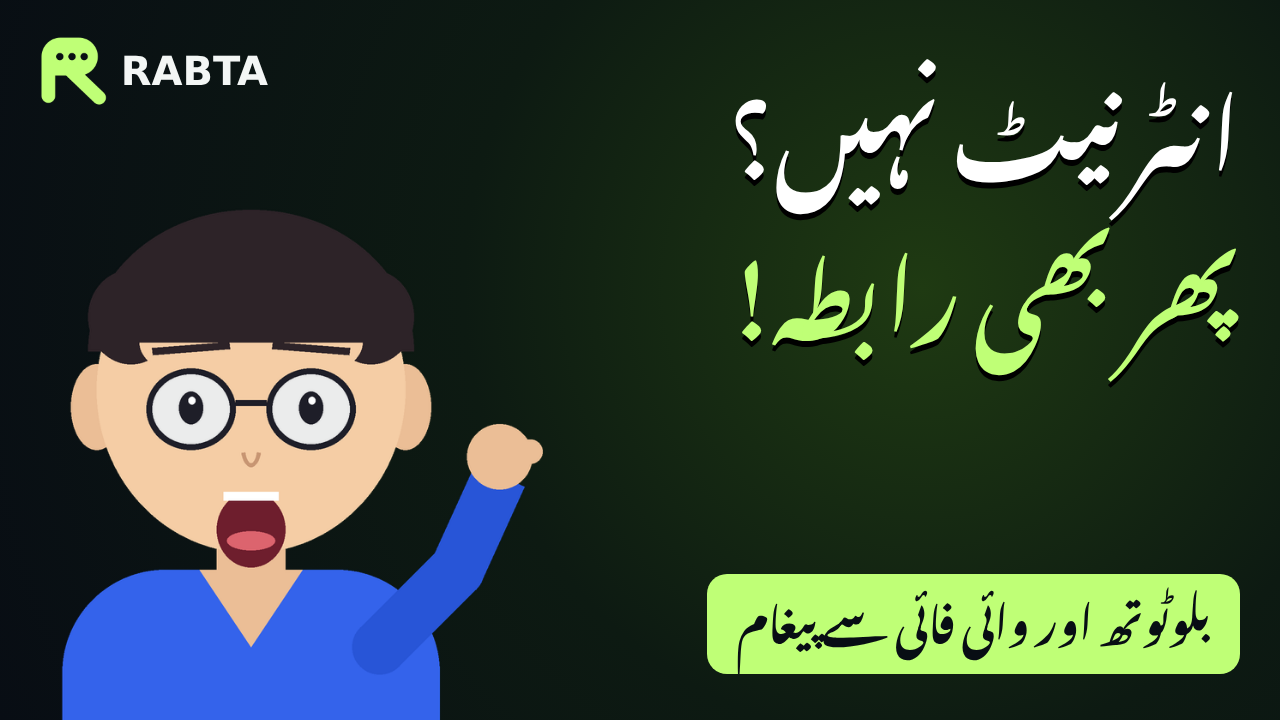
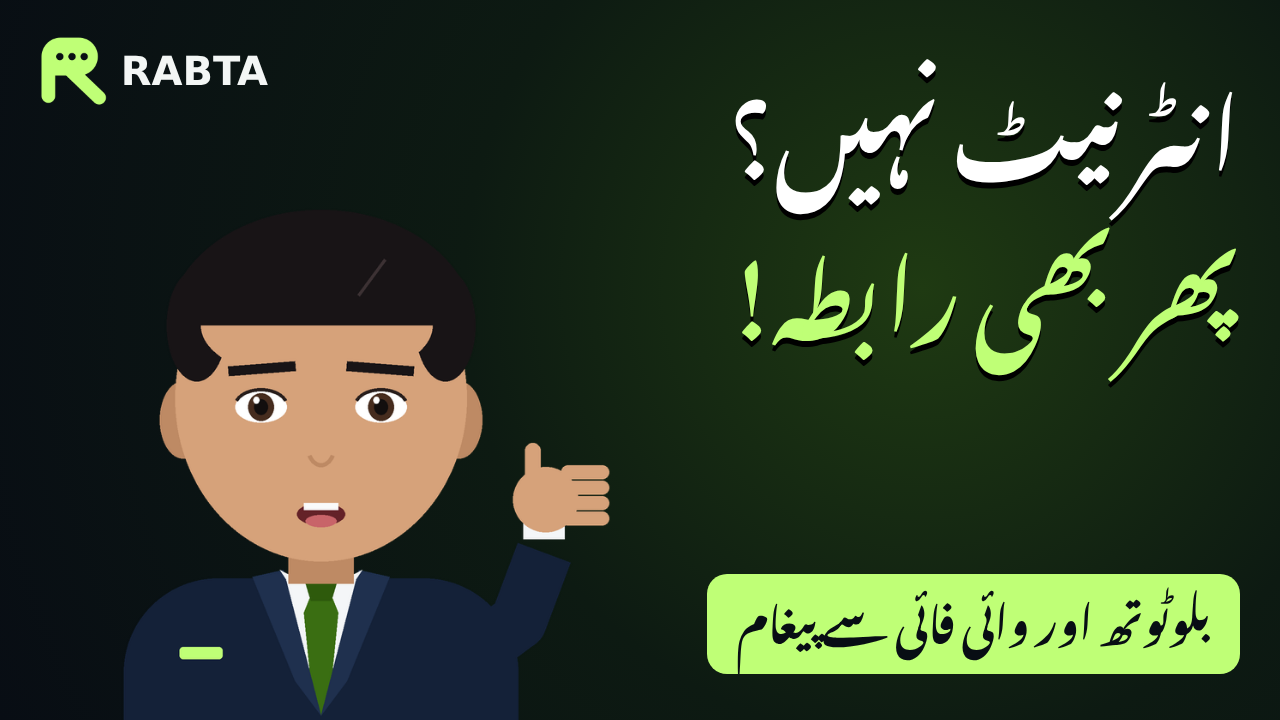
Rabta ad: professional presenter in blazer standing beside slides, upbeat ad music
- character STYLE "pro": young clean-shaven man, navy blazer, shirt, tie
- style.presenter "stage": big half-body presenter instead of facecam bubble
- sfx.make_music_upbeat: generated C-G-Am-F pop/corporate loop (pluck, pad,
  bass, kick, clap, hats); script music/music_volume options
- workflow installs numpy

Claude-Session: https://claude.ai/code/session_01Gjc32QoqbMwPDRYSt9ZF2o

Changed region(s): [[0.0312, 0.275, 0.5, 1.0]]

diff --git a/character.py b/character.py
@@ -74,6 +74,86 @@ def _base(eyes_open: bool, mouth: int, pose: int = 0) -> Image.Image:
     return im.resize((CW, CH), Image.LANCZOS)
 
 
+STYLE = "classic"  # "pro": young man in a navy blazer, shirt and tie (set by main.py from the script)
+
+
+def _base_pro(eyes_open: bool, mouth: int, pose: int = 0) -> Image.Image:
+    """professional young presenter: neat dark hair, clean-shaven, navy blazer, white shirt, green tie"""
+    im = Image.new("RGBA", (CW * S, CH * S), (0, 0, 0, 0))
+    d = ImageDraw.Draw(im)
+    s = lambda *v: [(x + (OX if k % 2 == 0 else 0)) * S for k, x in enumerate(v)]
+    skin, skin_d, hair = (214, 162, 122), (190, 138, 100), (24, 20, 22)
+    navy, navy_l, shirt, tie = (20, 33, 56), (31, 48, 78), (244, 246, 248), (58, 110, 18)
+
+    def limb(pts, w, col):
+        for a, b in zip(pts, pts[1:]):
+            d.line(s(*a, *b), fill=col, width=w * S)
+        for q in pts[:-1]:
+            d.ellipse(s(q[0] - w // 2, q[1] - w // 2, q[0] + w // 2, q[1] + w // 2), fill=col)
+    # blazer body, shirt, tie, lapels
+    d.rounded_rectangle(s(50, 480, 510, 780), radius=110 * S, fill=navy)
+    d.polygon(s(200, 478, 360, 478, 280, 640), fill=shirt)
+    d.polygon(s(268, 500, 292, 500, 300, 520, 290, 620, 280, 640, 270, 620, 260, 520), fill=tie)
+    d.polygon(s(262, 486, 298, 486, 292, 506, 268, 506), fill=(46, 90, 12))          # knot
+    d.polygon(s(200, 478, 236, 470, 280, 640, 250, 600), fill=navy_l)                 # left lapel
+    d.polygon(s(360, 478, 324, 470, 280, 640, 310, 600), fill=navy_l)                 # right lapel
+    d.polygon(s(232, 470, 262, 486, 252, 500), fill=shirt)                            # collar
+    d.polygon(s(328, 470, 298, 486, 308, 500), fill=shirt)
+    d.rounded_rectangle(s(395, 560, 445, 574), radius=4 * S, fill=(191, 255, 118))   # pocket square
+    if pose == 1:   # pointing at the slide on the left
+        limb([(130, 590), (50, 530), (20, 450)], 66, navy)
+        d.rectangle(s(-4, 414, 44, 434), fill=shirt)                                   # cuff
+        d.ellipse(s(-20, 350, 56, 426), fill=skin)                                     # palm
+        for fy in (356, 374, 392, 410):                                                # fingers toward the slide
+            d.rounded_rectangle(s(-56, fy - 8, 0, fy + 8), radius=8 * S, fill=skin)
+        d.rounded_rectangle(s(24, 322, 42, 366), radius=9 * S, fill=skin)              # thumb
+    elif pose == 2:  # open hand explaining
+        limb([(430, 610), (530, 570), (560, 480)], 66, navy)
+        d.rectangle(s(536, 456, 584, 476), fill=shirt)
+        d.ellipse(s(520, 390, 600, 470), fill=skin)
+        for fx in (528, 548, 568, 588):
+            d.rounded_rectangle(s(fx - 8, 360, fx + 8, 420), radius=8 * S, fill=skin)
+    # neck, ears, head
+    d.rectangle(s(242, 400, 318, 486), fill=skin_d)
+    d.ellipse(s(92, 250, 146, 340), fill=skin_d)
+    d.ellipse(s(414, 250, 468, 340), fill=skin_d)
+    d.ellipse(s(110, 80, 450, 460), fill=skin)
+    # hair: neat, side part
+    d.pieslice(s(100, 50, 460, 330), 180, 360, fill=hair)
+    d.ellipse(s(100, 120, 170, 250), fill=hair)
+    d.ellipse(s(390, 120, 460, 250), fill=hair)
+    d.chord(s(150, 120, 420, 250), 0, 180, fill=skin)
+    d.polygon(s(150, 180, 210, 110, 330, 96, 420, 150, 420, 180, 330, 140, 220, 150), fill=hair)
+    d.line(s(205, 108, 236, 150), fill=(60, 50, 52), width=4 * S)                     # part line
+    # eyes
+    for cx in (210, 350):
+        if eyes_open:
+            d.ellipse(s(cx - 30, 262, cx + 30, 298), fill=(255, 255, 255))
+            d.ellipse(s(cx - 15, 264, cx + 15, 296), fill=(70, 44, 30))
+            d.ellipse(s(cx - 8, 271, cx + 8, 289), fill=(18, 14, 14))
+            d.ellipse(s(cx + 2, 268, cx + 9, 276), fill=(255, 255, 255))
+            d.arc(s(cx - 32, 258, cx + 32, 300), 200, 340, fill=(40, 30, 28), width=4 * S)
+        else:
+            d.arc(s(cx - 30, 262, cx + 30, 296), 20, 160, fill=(40, 30, 28), width=5 * S)
+    # brows
+    d.line(s(172, 238, 250, 232), fill=hair, width=12 * S)
+    d.line(s(310, 232, 388, 238), fill=hair, width=12 * S)
+    # nose
+    d.arc(s(262, 300, 298, 350), 30, 150, fill=skin_d, width=5 * S)
+    # mouth (0 closed smile, 1 small, 2 medium, 3 wide)
+    mx, my = 280, 398
+    if mouth == 0:
+        d.arc(s(mx - 34, my - 18, mx + 34, my + 10), 20, 160, fill=(130, 60, 60), width=6 * S)
+    else:
+        h = {1: 10, 2: 20, 3: 30}[mouth]
+        w = {1: 22, 2: 28, 3: 32}[mouth]
+        d.ellipse(s(mx - w, my - 6, mx + w, my + h), fill=(100, 34, 40))
+        d.rectangle(s(mx - w + 8, my - 6, mx + w - 8, my + 2), fill=(250, 250, 250))
+        if mouth >= 2:
+            d.ellipse(s(mx - w + 10, my + h - 12, mx + w - 10, my + h + 2), fill=(200, 100, 105))
+    return im.resize((CW, CH), Image.LANCZOS)
+
+
 _cache = {}
 
 
@@ -81,10 +161,11 @@ BOB = 8  # px of head/body bob while talking
 
 
 def frame(eyes_open, mouth, pose=0, bob=0):
-    k = (eyes_open, mouth, pose, bob)
+    k = (STYLE, eyes_open, mouth, pose, bob)
     if k not in _cache:
         im = Image.new("RGBA", (CW, CH), (0, 0, 0, 0))
-        im.alpha_composite(_base(eyes_open, mouth, pose), (0, BOB - bob))
+        base = _base_pro if STYLE == "pro" else _base
+        im.alpha_composite(base(eyes_open, mouth, pose), (0, BOB - bob))
         _cache[k] = im
     return _cache[k]
 
@@ -140,7 +221,7 @@ def build_scene_frames(audio_path, total_seconds, workdir, idx, seed=0, gesture_
         states.append((eyes, m, pose, bob))
     paths = {}
     for st in set(states):
-        p = os.path.join(workdir, "char_%d%d%d%d.png" % (int(st[0]), st[1], st[2], st[3]))
+        p = os.path.join(workdir, "char_%s_%d%d%d%d.png" % (STYLE, int(st[0]), st[1], st[2], st[3]))
         if not os.path.exists(p):
             frame(*st).save(p)
         paths[st] = os.path.abspath(p)
@@ -202,7 +283,7 @@ def build_bubble_frames(audio_path, total_seconds, workdir, idx, size=340, seed=
     with open(lst, "w") as f:
         run_st, run_n = states[0], 0
         def flush(st, c):
-            p = os.path.abspath(os.path.join(workdir, "bub%d_%d%d%d.png" % (size, int(st[0]), st[1], st[2])))
+            p = os.path.abspath(os.path.join(workdir, "bub%d_%s_%d%d%d.png" % (size, STYLE, int(st[0]), st[1], st[2])))
             if not os.path.exists(p):
                 bubble(st[0], st[1], st[2], size).save(p)
             f.write(f"file '{p}'\nduration {c / FPS:.5f}\n")

diff --git a/sfx.py b/sfx.py
@@ -108,3 +108,74 @@ def make_music(path):
                     "-af", "lowpass=f=1400,aecho=0.8:0.6:90|170:0.25|0.15,volume=0.8",
                     "-ac", "1", "-c:a", "pcm_s16le", path], check=True)
     return path
+
+
+def make_music_upbeat(path, bpm=108, bars=8, seed=3):
+    """bright, modern 'corporate / tech ad' loop: pluck chords, warm pad, bass, soft kick, clap and hats.
+    Progression C - G - Am - F (uplifting pop). Generated here, so no copyright issues. Seamless loop."""
+    if os.path.exists(path):
+        return path
+    import numpy as np
+    rng = np.random.default_rng(seed)
+    beat = 60.0 / bpm; bar = 4 * beat
+    n = int(SR * bar * bars); L = np.zeros(n); R = np.zeros(n)
+    hz = lambda m: 440.0 * 2 ** ((m - 69) / 12)
+    prog = [[60, 64, 67, 72], [59, 62, 67, 71], [57, 60, 64, 69], [57, 60, 65, 69]]  # C, G/B, Am, F
+    roots = [36, 43, 45, 41]
+
+    def add(sig, t0, pan=0.0, gain=1.0):
+        i = int(t0 * SR); j = min(n, i + len(sig))
+        if i >= n:
+            return
+        s = sig[: j - i] * gain
+        L[i:j] += s * (1 - pan) ** 0.5; R[i:j] += s * (1 + pan) ** 0.5
+
+    def tone(f, dur, decay, harm=(1, .5, .25, .12), attack=0.004):
+        t = np.arange(int(dur * SR)) / SR
+        w = sum(a * np.sin(2 * np.pi * f * (k + 1) * t) for k, a in enumerate(harm))
+        rel = np.minimum(1, (t[-1] - t) / 0.03 + 1e-9)  # 30 ms release, no clicks at note ends
+        return w * np.exp(-t * decay) * np.minimum(1, t / attack) * rel
+
+    def noise(dur, decay, hp=True):
+        x = rng.uniform(-1, 1, int(dur * SR))
+        if hp:
+            x = np.diff(x, prepend=0)
+        t = np.arange(len(x)) / SR
+        return x * np.exp(-t * decay)
+
+    kick_t = np.arange(int(0.35 * SR)) / SR
+    kick = np.sin(2 * np.pi * (48 * kick_t + 90 * (1 - np.exp(-kick_t * 30)) / 30)) * np.exp(-kick_t * 9)
+    for b in range(bars):
+        c = b % 4; t_bar = b * bar
+        # warm pad (whole bar)
+        for m in prog[c]:
+            add(tone(hz(m), bar, 0.6, harm=(1, .3, .1), attack=0.25), t_bar, pan=0.0, gain=0.035)
+        # pluck pattern on 8ths: x . x x . x . x
+        for k, on in enumerate([1, 0, 1, 1, 0, 1, 0, 1]):
+            if on:
+                for vi, m in enumerate(prog[c][1:] if k % 2 else prog[c][:3]):
+                    add(tone(hz(m + 12), 0.5, 9), t_bar + k * beat / 2, pan=(-0.35 + 0.35 * vi), gain=0.09)
+        # bass: root on 8ths with octave bounce
+        for k in range(8):
+            m = roots[c] + (12 if k % 4 == 3 else 0)
+            add(tone(hz(m), beat / 2 * 0.95, 5, harm=(1, .35, .1), attack=0.01), t_bar + k * beat / 2, gain=0.16)
+        # drums
+        for q in range(4):
+            add(kick, t_bar + q * beat, gain=0.4)
+            if q in (1, 3):
+                add(noise(0.12, 30), t_bar + q * beat, gain=0.06)
+            add(noise(0.04, 90), t_bar + q * beat + beat / 2, pan=0.3, gain=0.025)
+        if b % 4 == 3:  # little fill at phrase end
+            for k in range(4):
+                add(noise(0.04, 90), t_bar + 3 * beat + k * beat / 4, pan=-0.3, gain=0.02)
+    peak = max(np.abs(L).max(), np.abs(R).max()) or 1
+    st = (np.stack([L, R], 1) / peak * 0.85 * 32767).astype("<i2")
+    raw = path + ".raw.wav"
+    with wave.open(raw, "wb") as w:
+        w.setnchannels(2); w.setsampwidth(2); w.setframerate(SR); w.writeframes(st.tobytes())
+    subprocess.run(["ffmpeg", "-y", "-v", "error", "-i", raw, "-af",
+                    "lowpass=f=10000,aecho=0.8:0.5:60|120:0.18|0.1,equalizer=f=250:t=q:w=1:g=-2,highshelf=f=6000:g=1.5,"
+                    "acompressor=threshold=0.3:ratio=2:attack=10:release=150",
+                    "-c:a", "pcm_s16le", path], check=True)
+    os.remove(raw)
+    return path

diff --git a/main.py b/main.py
@@ -5,7 +5,9 @@
 
 Scene "screen" types: title, chat, steps, bullets, checklist, stock (stock footage, needs PEXELS_API_KEY).
 Script options: "voice" (Edge voice, e.g. ur-PK-AsadNeural), "voice_rate", "captions": false,
-"style": {"brand", "logo" (file in brand/), "theme" (e.g. rabta), "lang": "ur" for Urdu right-to-left}.
+"style": {"brand", "logo" (file in brand/), "theme" (e.g. rabta), "lang": "ur" for Urdu right-to-left,
+"character": "pro" (presenter in blazer and tie), "presenter": "stage" (big presenter beside the slides)},
+"music": "upbeat" (generated ad-style track when no music.mp3), "music_volume" (default 0.16).
 Use **word** in titles/items to highlight a word in yellow.
 """
 import argparse, json, math, os, re
@@ -40,6 +42,11 @@ def build(script, out_dir, music, vertical, audio):
     tag = "v" if vertical else "h"
     n = len(script["scenes"])
     scenes = []
+    style = script.get("style") or {}
+    character.STYLE = style.get("character", "classic")
+    stage = style.get("presenter") == "stage"  # big half-body presenter beside the slides instead of a facecam bubble
+    if script.get("music") == "upbeat" and not os.path.exists(music):
+        music = sfx.make_music_upbeat(os.path.join(work, "upbeat.wav"))
     with anim.Renderer(vertical) as R:
         for i, (sc, (wav, dur, words)) in enumerate(zip(script["scenes"], audio)):
             frames = math.ceil((dur + GAP) * FPS)
@@ -53,13 +60,18 @@ def build(script, out_dir, music, vertical, audio):
                 screen["type"] = "title"
             html = anim.build_html(screen, words, sp, i, n, vertical, clear=bool(clip), style=script.get("style"))
             slide = R.frames(html, frames, work, f"s{i}{tag}", transparent=bool(clip))
-            char = (character.build_bubble_frames(wav, frames / FPS, work, i, 420 if vertical else 340)
-                    if sc.get("presenter", True) else None)
+            if not sc.get("presenter", True):
+                char = None
+            elif stage:
+                char = character.build_scene_frames(wav, frames / FPS, work, i)
+            else:
+                char = character.build_bubble_frames(wav, frames / FPS, work, i, 420 if vertical else 340)
             scenes.append(dict(frames=frames, wav=wav, words=words, slide=slide, clip=clip, char=char,
                                events=sfx.events_from_html(html)))
             print(f"[{'short' if vertical else 'video'}] scene {i + 1}/{n} ready ({frames / FPS:.1f}s)")
     return render.render(scenes, work, os.path.join(out_dir, "short.mp4" if vertical else "final.mp4"),
-                         music, vertical, captions=script.get("captions", True))
+                         music, vertical, captions=script.get("captions", True),
+                         presenter="stage" if stage else "bubble", music_volume=script.get("music_volume", 0.16))
 
 
 def make_thumbnail(script, out_dir):

diff --git a/render.py b/render.py
@@ -64,13 +64,15 @@ Format: Layer,Start,End,Style,Name,MarginL,MarginR,MarginV,Effect,Text
     open(path, "w").write(head + "\n".join(ev) + "\n")
 
 
-def render(scenes, workdir, out_path, music=None, vertical=False, captions=True):
+def render(scenes, workdir, out_path, music=None, vertical=False, captions=True, presenter="bubble", music_volume=0.16):
     """scenes: list of dict(frames=N, wav, words(scene-relative), slide(concat list), clip(optional stock mp4),
     char(optional concat list))"""
     W, H = (1080, 1920) if vertical else (1920, 1080)
     tag = "v" if vertical else "h"
     bub = 420 if vertical else 340
     cx, cy = ((W - bub) // 2, H - bub - 90) if vertical else (W - bub - 60, H - bub - 50)
+    if presenter == "stage":  # 680x700 half-body canvas standing on the bottom edge
+        cx, cy = ((W - 680) // 2, H - 700) if vertical else (W - 680 + 10, H - 700)
     cover = f"scale={W}:{H}:force_original_aspect_ratio=increase,crop={W}:{H},fps={FPS}"
     vsegs, asegs, all_words, t0, events = [], [], [], 0.0, []
     for i, s in enumerate(scenes):
@@ -121,7 +123,7 @@ def render(scenes, workdir, out_path, music=None, vertical=False, captions=True)
     fc = (f"[0:v]{subs}fade=t=in:st=0:d=0.35,fade=t=out:st={total - 0.45:.3f}:d=0.45[v];"
           f"[1:a]loudnorm=I=-15:TP=-2:LRA=9,aresample=48000,asplit=2[vo][vsc];"
           f"[2:a]aresample=48000,volume=0.55[sx];"
-          f"[3:a]aresample=48000,volume=0.16,afade=t=in:st=0:d=1.5[m0];"
+          f"[3:a]aresample=48000,volume={music_volume},afade=t=in:st=0:d=1.5[m0];"
           f"[m0][vsc]sidechaincompress=threshold=0.03:ratio=5:attack=20:release=500[m];"
           f"[vo][sx][m]amix=inputs=3:duration=first:normalize=0,alimiter=limit=0.95,"
           f"afade=t=out:st={total - 0.8:.3f}:d=0.8[a]")
